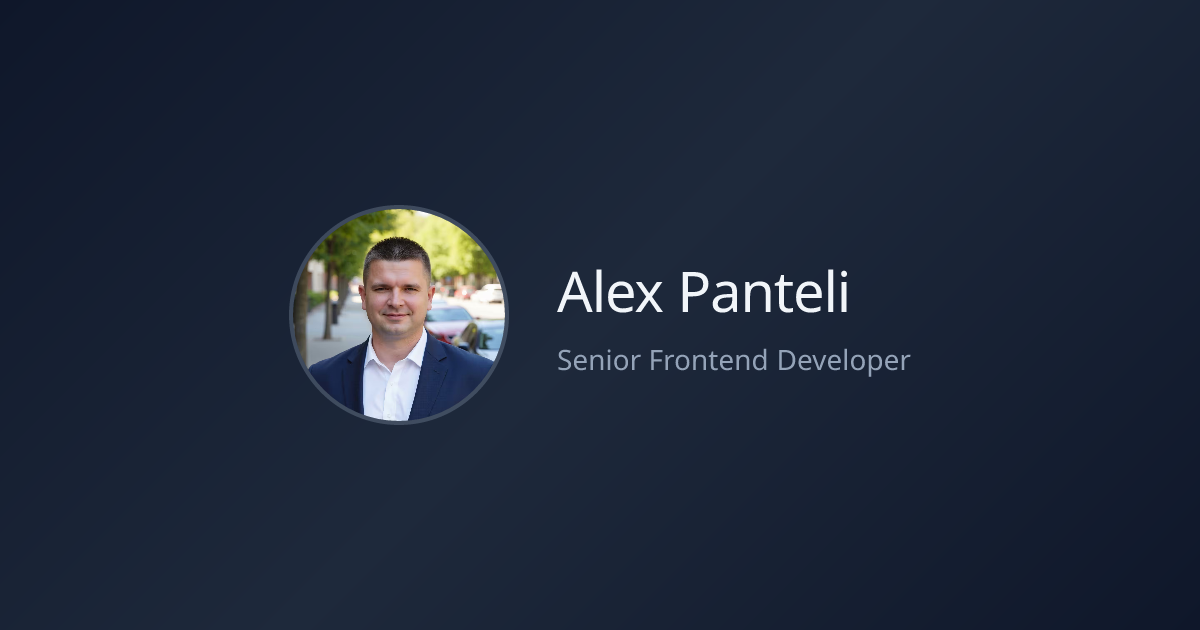
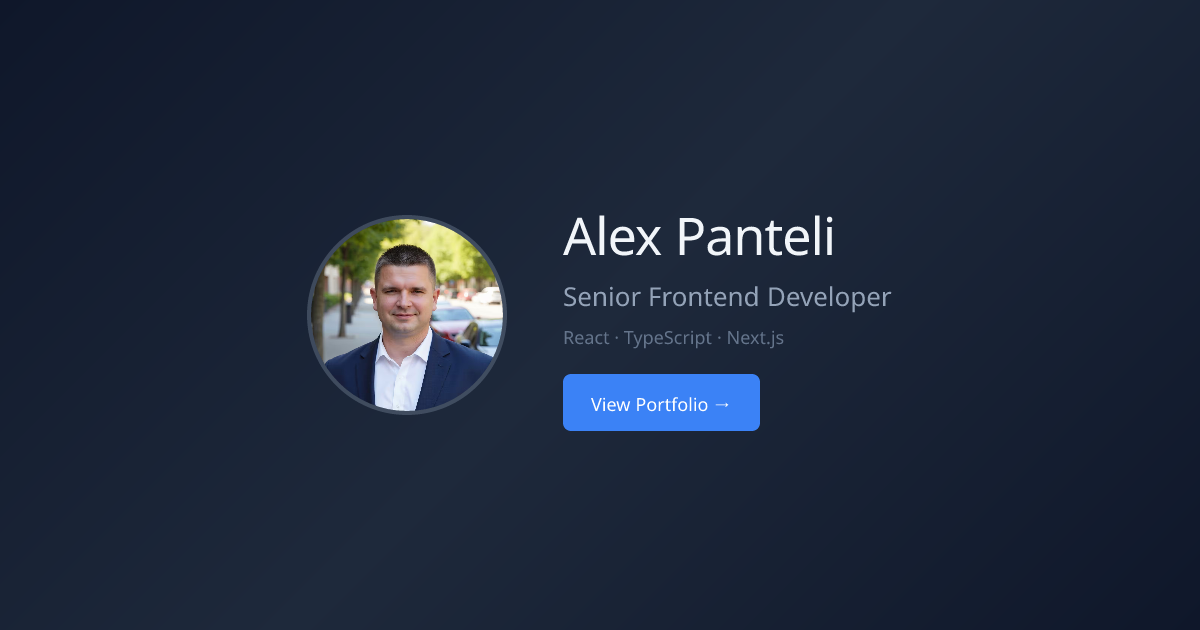
update metadata and site config for seo

Changed region(s): [[0.4625, 0.3317, 0.7708, 0.6937], [0.2158, 0.3016, 0.4317, 0.6937]]

diff --git a/src/app/layout.tsx b/src/app/layout.tsx
@@ -44,10 +44,10 @@ export const metadata: Metadata = {
     type: "website",
     images: [
       {
-        url: "/og-image.png",
+        url: `${SITE_CONFIG.url}/og-image.png`,
         width: 1200,
         height: 630,
-        alt: "Alex Panteli — Senior Frontend Developer",
+        alt: "Alex Panteli — Senior Frontend Developer | React & Next.js",
       },
     ],
   },
@@ -55,7 +55,7 @@ export const metadata: Metadata = {
     card: "summary_large_image",
     title: SITE_CONFIG.title,
     description: SITE_CONFIG.description,
-    images: ["/twitter-image.png"],
+    images: [`${SITE_CONFIG.url}/twitter-image.png`],
   },
 };
 

diff --git a/src/lib/constants.ts b/src/lib/constants.ts
@@ -7,7 +7,7 @@ export const NAV_LINKS = [
 
 export const SITE_CONFIG = {
   name: "Alex Panteli",
-  title: "Alex Panteli — Senior Frontend Developer",
+  title: "Alex Panteli — Senior Frontend Developer | React & Next.js",
   description:
     "Portfolio of Alex Panteli, a Senior Frontend Developer based in Cyprus specializing in React, TypeScript, and Next.js.",
   url: "https://alexpanteli.dev",
